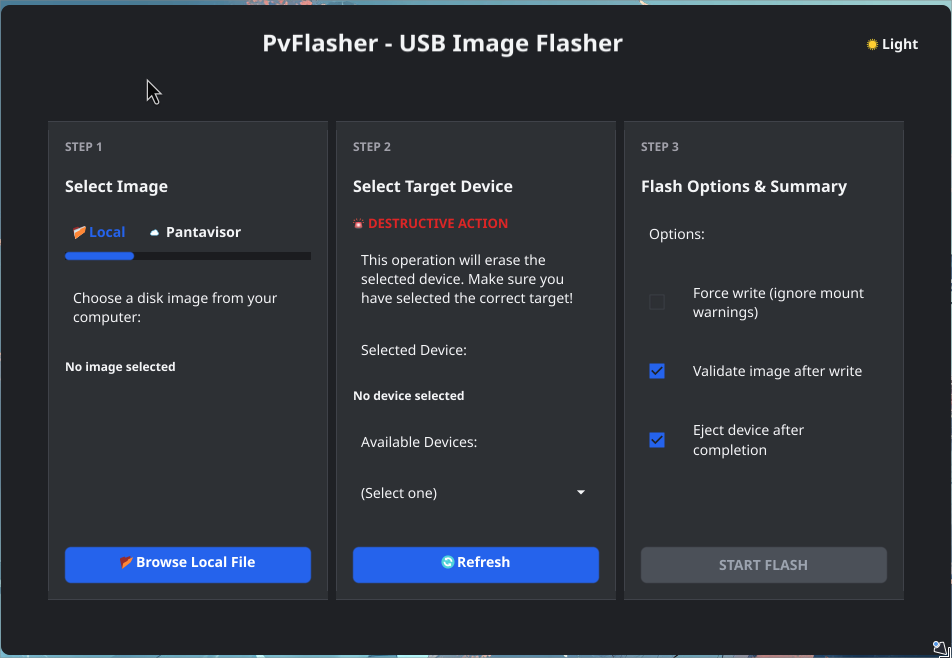
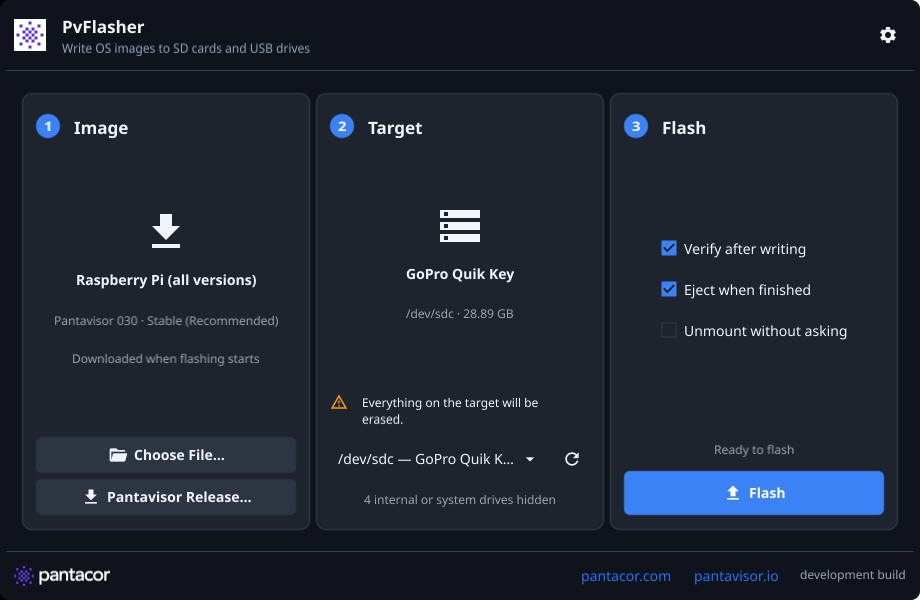
docs: add performance comparison and new screenshots
Benchmark pvflasher against dd, bmaptool, Raspberry Pi Imager and the
balenaEtcher engine with scripts/benchmark-flash.sh and publish the
results, chart and new GUI screenshots in the README.

diff --git a/README.md b/README.md
@@ -1,15 +1,49 @@
+<img src="Icon.png" alt="pvflasher logo" width="80">
+
 # pvflasher
 
 **pvflasher** is an open-source flashing tool from [Pantacor](https://pantacor.com/) for writing operating system images to removable media. It can flash generic OS images and `.bmap`-accelerated image layouts from any distribution, with built-in [Pantavisor](https://pantavisor.io/) image browsing in the GUI.
 
-<img src="Icon.png" alt="Logo" width="80">
+![PvFlasher main window](screenshot.png)
+
+## ⚡ Performance
+
+<picture>
+  <source media="(prefers-color-scheme: dark)" srcset="docs/images/benchmark-dark.svg">
+  <img alt="Flash time in seconds, lower is better: bmaptool 27.7, pvflasher 28.7, pvflasher with verify 33.5, Raspberry Pi Imager 37.8, Raspberry Pi Imager with verify 45.2, dd 52.5, balenaEtcher engine 78.6" src="docs/images/benchmark-light.svg">
+</picture>
+
+*   **Verified in 33.5 s**: pvflasher writes the image *and* reads every written block back against its checksums faster than Raspberry Pi Imager writes it without checking (37.8 s), and **26% faster** than Raspberry Pi Imager with verification.
+*   **1.8× faster than `dd`** and **2.7× faster than the balenaEtcher engine** (all without verification): the `.bmap` skips the 30% of the image that is empty, and decompression runs in parallel with the writes.
+*   **On par with `bmaptool`** (27.7 s), the reference bmap implementation. bmaptool checks the *image* against the bmap checksums as it reads it, which catches a corrupted download, but it never reads the card back, so a failed write or a fake/failing card goes unnoticed. pvflasher's verify step reads back every written block from the card and checks it, and also adds a GUI and Windows/macOS support.
+
+<details>
+<summary>Method and raw numbers</summary>
+
+Pantavisor 030 `rpi-scarthgap` image (`.wic.bz2`, 390 MB compressed, 715 MB raw, 504 MB mapped by the bmap), written to a microSD card in a USB 3 (5 Gb/s) reader on Linux 7.2, 16 CPUs. The page cache is dropped before every run, and each run is timed until the tool exits with the data on the card. Two runs per tool; [raw results](docs/benchmarks/2026-09-rpi-usb3.csv).
+
+| Tool | What it checks | Mean |
+| :--- | :--- | ---: |
+| bmaptool 3.9.0 | the source image only (no read-back, so write errors are not detected) | 27.7 s |
+| pvflasher | no | 28.7 s |
+| **pvflasher + verify** | **reads back every written block against the bmap checksums** | **33.5 s** |
+| Raspberry Pi Imager | no | 37.8 s |
+| Raspberry Pi Imager + verify | reads back the card | 45.2 s |
+| dd (`bs=4M`, `oflag=direct`, `conv=fsync`) | no | 52.5 s |
+| balenaEtcher engine* | — | 78.6 s |
+
+\* etcher-sdk, the write engine of balenaEtcher, run through `balena local flash` (balena CLI 25.2.6), since the balenaEtcher app has no command-line mode.
+
+Reproduce it on your own hardware with [`scripts/benchmark-flash.sh`](scripts/benchmark-flash.sh) (erases the target drive).
+
+</details>
 
 ## 🚀 Features
 
 *   **Cross-Platform**: Works on Linux, Windows, and macOS (macOS support in progress). Windows users should run with Administrator privileges for raw disk access.
 *   **Fast Flashing**: Uses `.bmap` (block map) files to flash only the blocks that contain data, significantly reducing flash time compared to `dd`.
 *   **Image Support**: Supports raw images (`.img`, `.iso`, `.wic`) and direct flashing from compressed archives (`.gz`, `.bz2`, `.xz`, `.zst`, `.zip`) without prior decompression.
-*   **Safety**: Built-in checks to prevent flashing to system drives or mounted devices (unless forced).
+*   **Safety**: The GUI only offers external drives, hides internal disks and drives in use by the system, and asks for confirmation before erasing the target.
 *   **Verification**: Automatic SHA256/SHA512 checksum verification of written data.
 *   **Pantavisor Integration**: Browse and download Pantavisor images directly from the GUI.
 *   **Dual Interface**:
@@ -30,7 +64,7 @@
 
 ## ☁ Pantavisor Images
 
-The **pvflasher** GUI includes built-in support for downloading and flashing **Pantavisor** images. You can select from different channels, versions, and target devices directly within the application. The image is automatically downloaded, validated, and flashed to your USB drive.
+The **pvflasher** GUI includes built-in support for downloading and flashing **Pantavisor** images. Choose a channel, version, and device using the same names as [pantavisor.io/downloads](https://pantavisor.io/downloads/); the image is automatically downloaded, checksum-validated, and flashed to your SD card or USB drive.
 
 Images are cached locally to avoid redundant downloads:
 *   **Linux/macOS**: `~/.pvflasher/images/`
@@ -72,13 +106,19 @@ Simply run the application:
 pvflasher
 ```
 
-![PVFlasher GUI](screenshot.png)
+1.  **Image**: Choose a local file (or drag & drop it onto the window), or pick an official Pantavisor release.
+2.  **Target**: Choose the SD card or USB drive. The list refreshes as drives are plugged in, and internal disks, drives in use by the system and empty card readers are never offered.
+3.  **Flash**: Click **Flash** and confirm. PvFlasher asks for administrator rights, writes the image and verifies it.
 
-1.  **Select Image**: Drag & drop or browse for your image file.
-2.  **Select Device**: Choose the target USB drive from the list.
-3.  **Flash**: Click the flash button to start.
+| Pantavisor releases | Flashing | Done |
+| :---: | :---: | :---: |
+| ![Choosing a Pantavisor release](docs/images/pantavisor-release.png) | ![Flash in progress](docs/images/flashing.png) | ![Flash complete](docs/images/flash-complete.png) |
 
-Use the gear icon in the top-right corner to open settings and switch between light and dark mode.
+Pantavisor releases use the same channel and device names as [pantavisor.io/downloads](https://pantavisor.io/downloads/).
+
+Use the gear icon in the top-right corner to switch between light and dark mode, or to follow your desktop's setting.
+
+<img src="docs/images/light-theme.png" alt="Light theme" width="460">
 
 ### CLI
 
